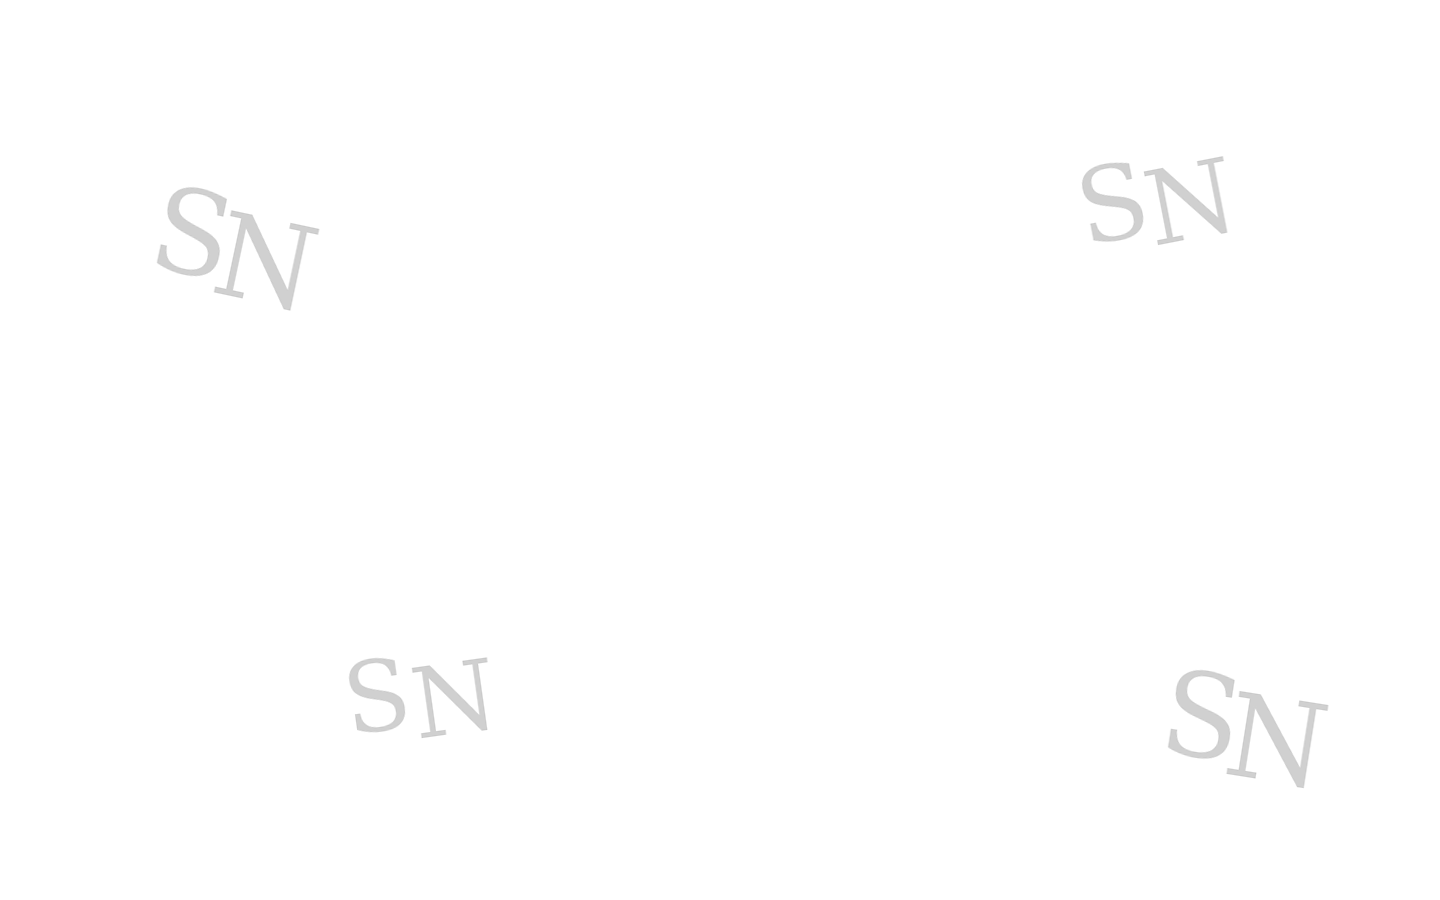
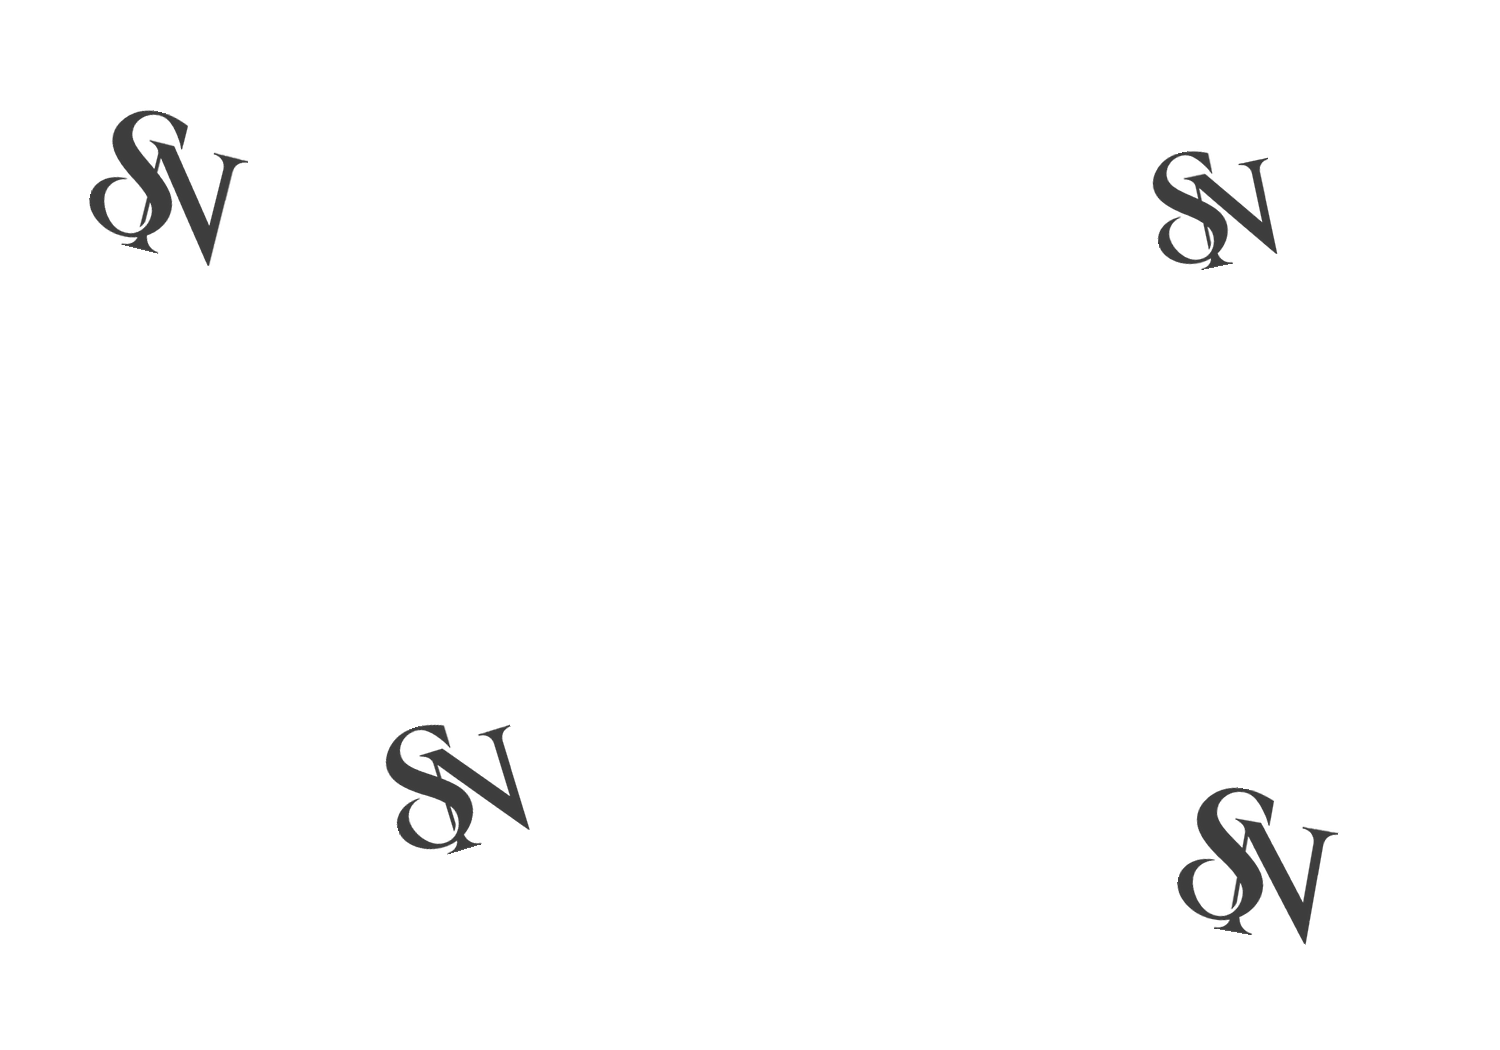
cwauhacua

diff --git a/style.css b/style.css
@@ -3026,37 +3026,27 @@ body.no-scroll .floating-go-to-cart { display: none !important; }
   .floating-go-to-cart { right: 14px; bottom: max(16px, env(safe-area-inset-bottom)); padding: 10px 14px; min-height: 46px; font-size: 13px; }
 }
 @media (prefers-reduced-motion: reduce) { .floating-go-to-cart { transition: none; } }
-
-
-/* SHANZEH — FOUR STATIONARY SN MARKS, ONLY WHILE MENU IS VISIBLE */
-.menu-collections {
-  position: relative !important;
-  isolation: isolate;
-  background: #ffffff !important;
-  background-image: none !important;
-}
-/* The sticky background stays in place during menu scrolling and exits with menu. */
-.menu-collections::before {
-  content: "" !important;
-  display: block !important;
-  position: sticky !important;
-  top: 0 !important;
-  height: 100vh !important;
-  width: 100% !important;
-  margin-bottom: -100vh !important;
-  z-index: 0 !important;
-  pointer-events: none !important;
-  background: url("./sn-menu-fixed.png") center center / 100% 100% no-repeat !important;
-  opacity: 1 !important;
-}
-.menu-collections > .menu-category-section {
-  position: relative;
-  z-index: 1;
-  background: transparent !important;
-  background-image: none !important;
+/* SHANZEH — EXACT SN MONOGRAM, SPACED MENU WATERMARKS */
+/* Replace earlier SN watermark rules with this block. */
+@media (min-width: 761px) {
+  .menu-collections {
+    background-image: url("./sn-menu-fixed.png") !important;
+    background-repeat: no-repeat !important;
+    background-size: 100vw 100vh !important;
+    background-position: center center !important;
+    background-attachment: fixed !important;
+    background-color: #ffffff !important;
+  }
+  .menu-collections::before { content: none !important; }
 }
 @media (max-width: 760px) {
-  .menu-collections::before {
-    background-size: 190% 100% !important;
+  .menu-collections {
+    background-image: url("./sn-menu-fixed.png") !important;
+    background-repeat: repeat-y !important;
+    background-size: 100% auto !important;
+    background-position: center top !important;
+    background-color: #ffffff !important;
   }
+  .menu-collections::before { content: none !important; }
 }
+/* Note: On mobile, fixed backgrounds are unreliable in some browsers. */
